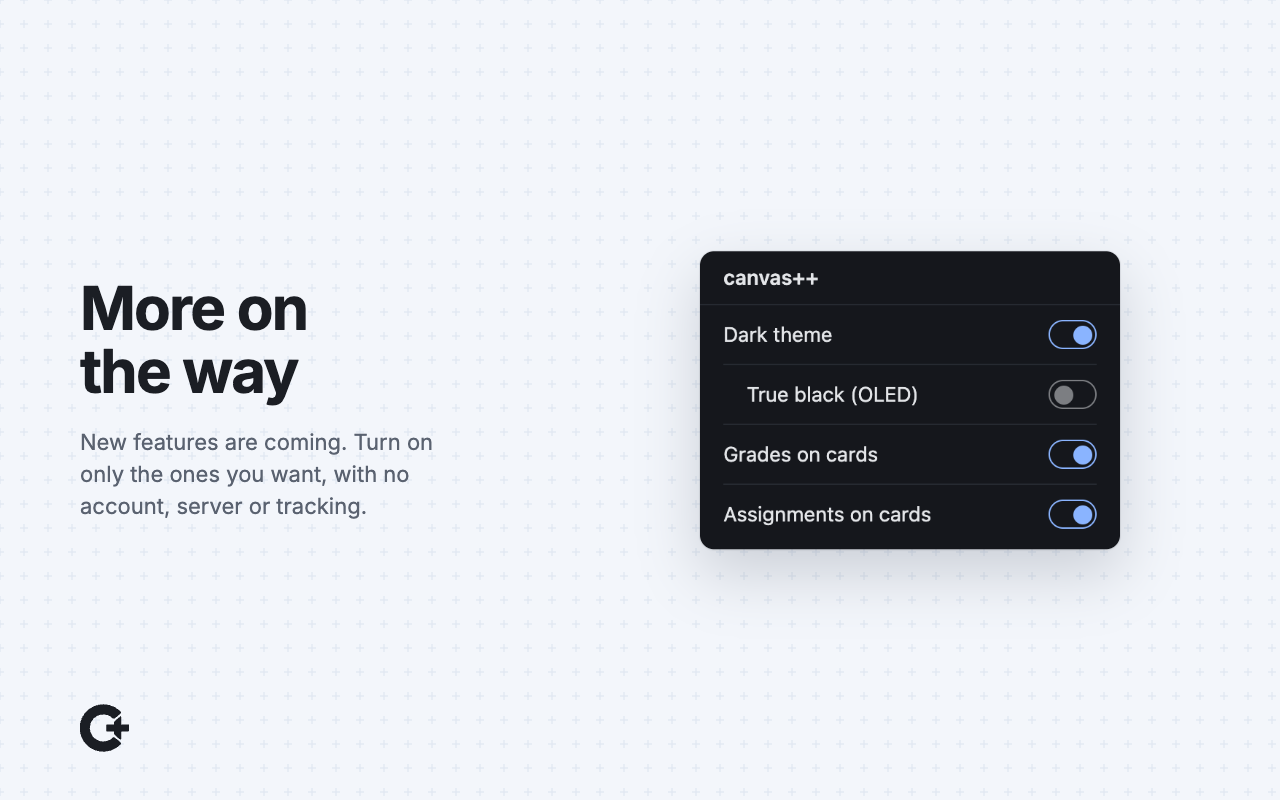
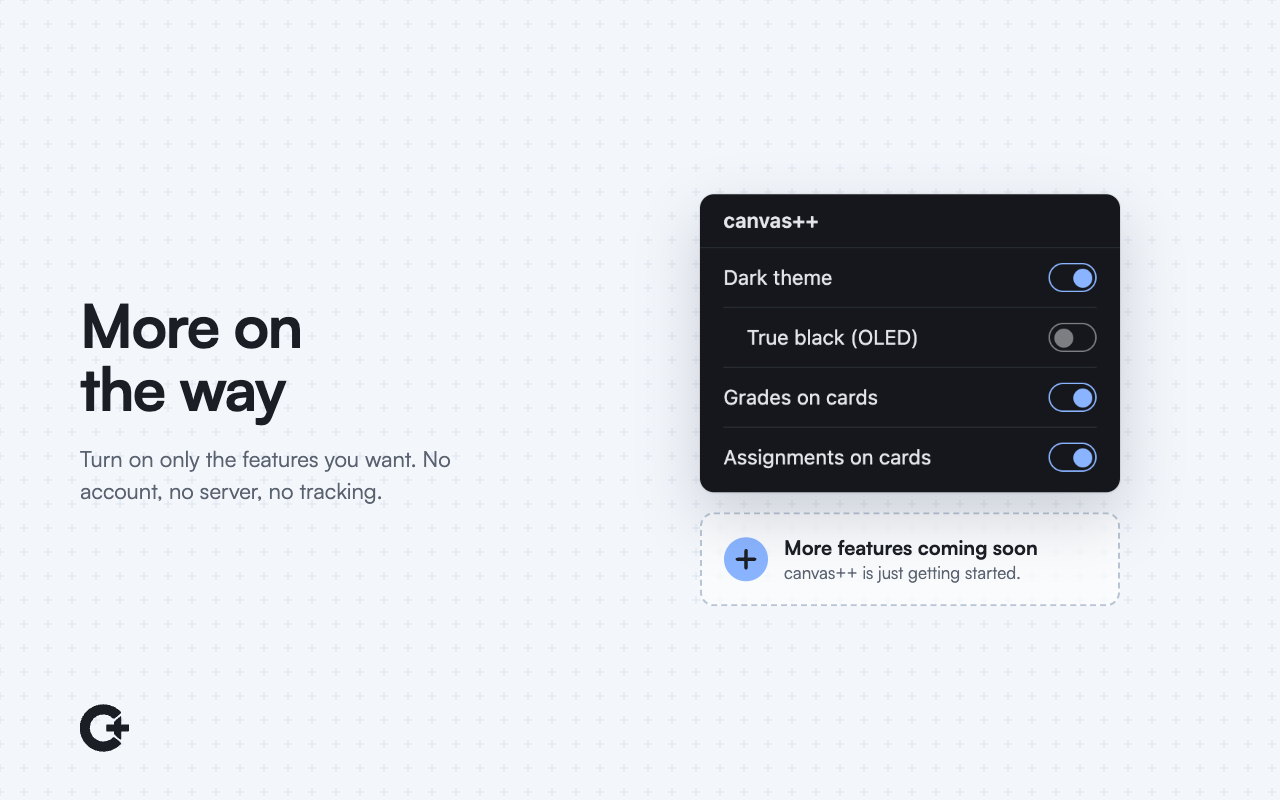
Set the store images in Satoshi, and add a more-features-coming card to the last one

diff --git a/design/store-images.ts b/design/store-images.ts
@@ -363,57 +363,74 @@ interface Slide {
   headline: string;
   text: string;
   dark?: boolean;
+  // where the art column sits; it's centered top to bottom
+  left: number;
+  width: number;
   art: string;
 }
+
+const frame = (inner: string) => `<div class="frame">${inner}</div>`;
 
 const SLIDES: Slide[] = [
   {
     file: '1-calmer.png',
     headline: 'A calmer<br>Canvas',
     text: 'A dark theme made for Canvas, with no white flash between pages.',
+    left: 500,
+    width: 740,
     // the same dashboard, light giving way to dark
-    art: `
-      <div class="frame" style="left: 500px; width: 740px">
-        <img src="${src(light.page)}">
-        <img src="${src(dark.page)}" class="over" style="clip-path: polygon(58% 0, 100% 0, 100% 100%, 38% 100%)">
-      </div>`,
+    art: frame(`
+      <img src="${src(light.page)}">
+      <img src="${src(dark.page)}" class="over" style="clip-path: polygon(58% 0, 100% 0, 100% 100%, 38% 100%)">`),
   },
   {
     file: '2-grades.png',
     headline: 'Your grade on every card',
     text: 'See where you stand in each course without opening Grades.',
     // large enough to read the grades, so it runs off the right edge
-    art: `<div class="frame" style="left: 520px; width: 1000px"><img src="${src(dark.row)}"></div>`,
+    left: 520,
+    width: 1000,
+    art: frame(`<img src="${src(dark.row)}">`),
   },
   {
     file: '3-assignments.png',
     headline: "What's due,<br>on the card",
     text: "Check work off there, and Canvas's own To Do list updates too.",
-    art: `<div class="frame" style="left: 700px; width: 420px"><img src="${src(light.card)}"></div>`,
+    left: 700,
+    width: 420,
+    art: frame(`<img src="${src(light.card)}">`),
   },
   {
     file: '4-true-black.png',
-    headline: 'True black for OLED',
+    headline: 'True black<br>for OLED',
     text: 'A pure black version of the dark theme, easy on OLED screens.',
     dark: true,
-    art: `<div class="frame" style="left: 500px; width: 740px"><img src="${src(oled.page)}"></div>`,
+    left: 500,
+    width: 740,
+    art: frame(`<img src="${src(oled.page)}">`),
   },
   {
     file: '5-more-to-come.png',
     headline: 'More on<br>the way',
-    text: 'New features are coming. Turn on only the ones you want, with no account, server or tracking.',
-    art: `<div class="frame" style="left: 700px; width: 420px"><img src="${src(popup)}"></div>`,
+    text: 'Turn on only the features you want. No account, no server, no tracking.',
+    left: 700,
+    width: 420,
+    // the popup, with a dashed card where the next feature goes
+    art: `${frame(`<img src="${src(popup)}">`)}
+      <div class="soon">
+        <svg class="plus" viewBox="0 0 40 40"><circle cx="20" cy="20" r="20" fill="#8ab4ff"/><path d="M20 12v16M12 20h16" stroke="#1b1e24" stroke-width="3" stroke-linecap="round"/></svg>
+        <div><b>More features coming soon</b><span>canvas++ is just getting started.</span></div>
+      </div>`,
   },
 ];
 
 const html = (slide: Slide) => `<!doctype html>
-<link rel="preconnect" href="https://fonts.googleapis.com">
-<link href="https://fonts.googleapis.com/css2?family=Inter:wght@400;500;700&display=block" rel="stylesheet">
+<link href="https://api.fontshare.com/v2/css?f[]=satoshi@400,700&display=block" rel="stylesheet">
 <style>
   * { margin: 0; box-sizing: border-box; }
   body {
     width: 1280px; height: 800px; overflow: hidden; position: relative;
-    font-family: Inter, sans-serif;
+    font-family: Satoshi, sans-serif;
     --ink: ${slide.dark ? '#f2f4f8' : '#1b1e24'};
     --muted: ${slide.dark ? '#a3abb8' : '#5a6270'};
     background: ${pluses(slide.dark ? '#16181d' : '#e3e9f3')} -12px -12px,
@@ -421,22 +438,28 @@ const html = (slide: Slide) => `<!doctype html>
   }
   .copy { position: absolute; left: 80px; top: 0; bottom: 0; width: 380px;
     display: flex; flex-direction: column; justify-content: center; }
-  h1 { font-size: 60px; line-height: 1.05; font-weight: 700; letter-spacing: -0.03em;
+  h1 { font-size: 60px; line-height: 1.05; font-weight: 700; letter-spacing: -0.025em;
     color: var(--ink); }
   p { margin-top: 24px; font-size: 22px; line-height: 1.45; color: var(--muted); }
   .logo { position: absolute; left: 80px; bottom: 48px; width: 50px; height: 48px;
     color: var(--ink); }
   .logo svg { display: block; width: 100%; height: 100%; }
-  .frame { position: absolute; top: 50%; transform: translateY(-50%);
-    border-radius: 14px; overflow: hidden;
+  .art { position: absolute; top: 50%; transform: translateY(-50%);
+    display: flex; flex-direction: column; gap: 20px; }
+  .frame { position: relative; border-radius: 14px; overflow: hidden;
     box-shadow: 0 1px 2px rgb(0 0 0 / 0.08), 0 24px 60px rgb(20 30 50 / ${slide.dark ? '0.6' : '0.18'});
     outline: 1px solid ${slide.dark ? '#2a2e36' : 'rgb(20 30 50 / 0.06)'}; }
   .frame img { display: block; width: 100%; }
   .frame .over { position: absolute; inset: 0; }
+  .soon { display: flex; align-items: center; gap: 16px; padding: 20px 22px;
+    border: 2px dashed #b9c4d4; border-radius: 14px; background: rgb(255 255 255 / 0.6); }
+  .soon b { display: block; font-size: 20px; font-weight: 700; color: var(--ink); }
+  .soon span { font-size: 17px; color: var(--muted); }
+  .plus { flex: none; width: 44px; height: 44px; }
 </style>
 <body>
   <div class="copy"><h1>${slide.headline}</h1><p>${slide.text}</p></div>
-  ${slide.art}
+  <div class="art" style="left: ${String(slide.left)}px; width: ${String(slide.width)}px">${slide.art}</div>
   <div class="logo">${MARK}</div>
 </body>`;
 
